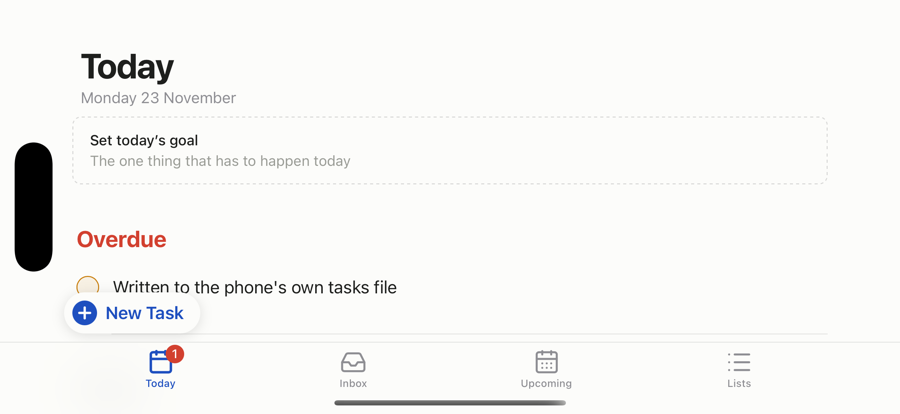
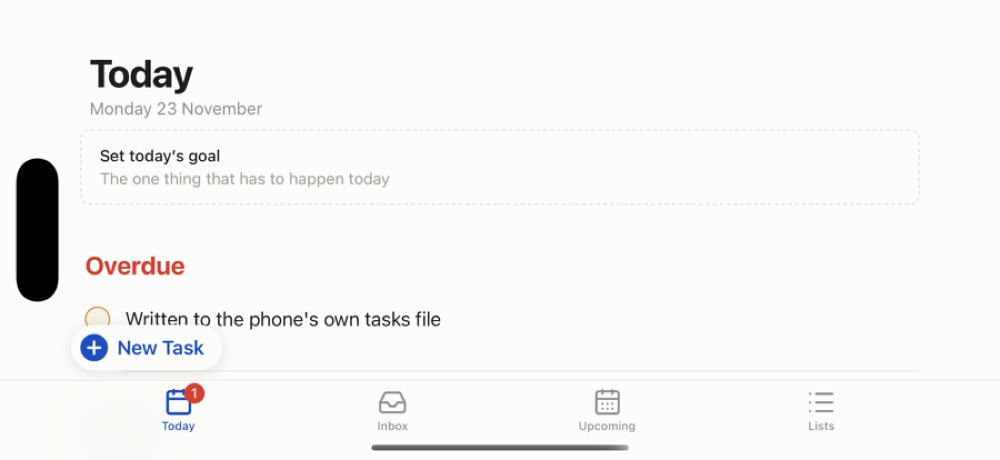
build(ios): the widget extension, App Group and done:// links in the project file
The Xcode project is generated from project.yml, so the widget extension,
the App Group on both targets, Live Activities support and the Swift bridge
settings are declared there. Regenerating also showed that the done:// URL
scheme lived only in Info.plist (written once by tauri ios init), so a
regeneration dropped it and sign-in could no longer return to the app; it is
in project.yml now. The iOS cdylib is linked with the two Swift symbols left
undefined (it is never loaded on iOS), and Tauri's pre-build step rewriting
the entitlements file is allowed.

Refs #71

diff --git a/crates/app/build.rs b/crates/app/build.rs
@@ -1,3 +1,15 @@
 fn main() {
+    // On iOS this crate calls two Swift functions that live in the app target
+    // (gen/apple/Sources/done-app/DoneNative.swift, `done_focus` and
+    // `done_widget_snapshot`). The app links the static library, where the
+    // linker joins them by name. The crate is also built as a cdylib (for
+    // Android; Tauri's template asks for all three kinds), and that iOS cdylib
+    // is linked on its own, without the Swift code, so the two names would be
+    // undefined and fail the build. They are left to be found at load time
+    // there instead; the cdylib is never loaded on iOS.
+    if std::env::var("CARGO_CFG_TARGET_OS").as_deref() == Ok("ios") {
+        println!("cargo:rustc-cdylib-link-arg=-Wl,-U,_done_focus");
+        println!("cargo:rustc-cdylib-link-arg=-Wl,-U,_done_widget_snapshot");
+    }
     tauri_build::build()
 }
